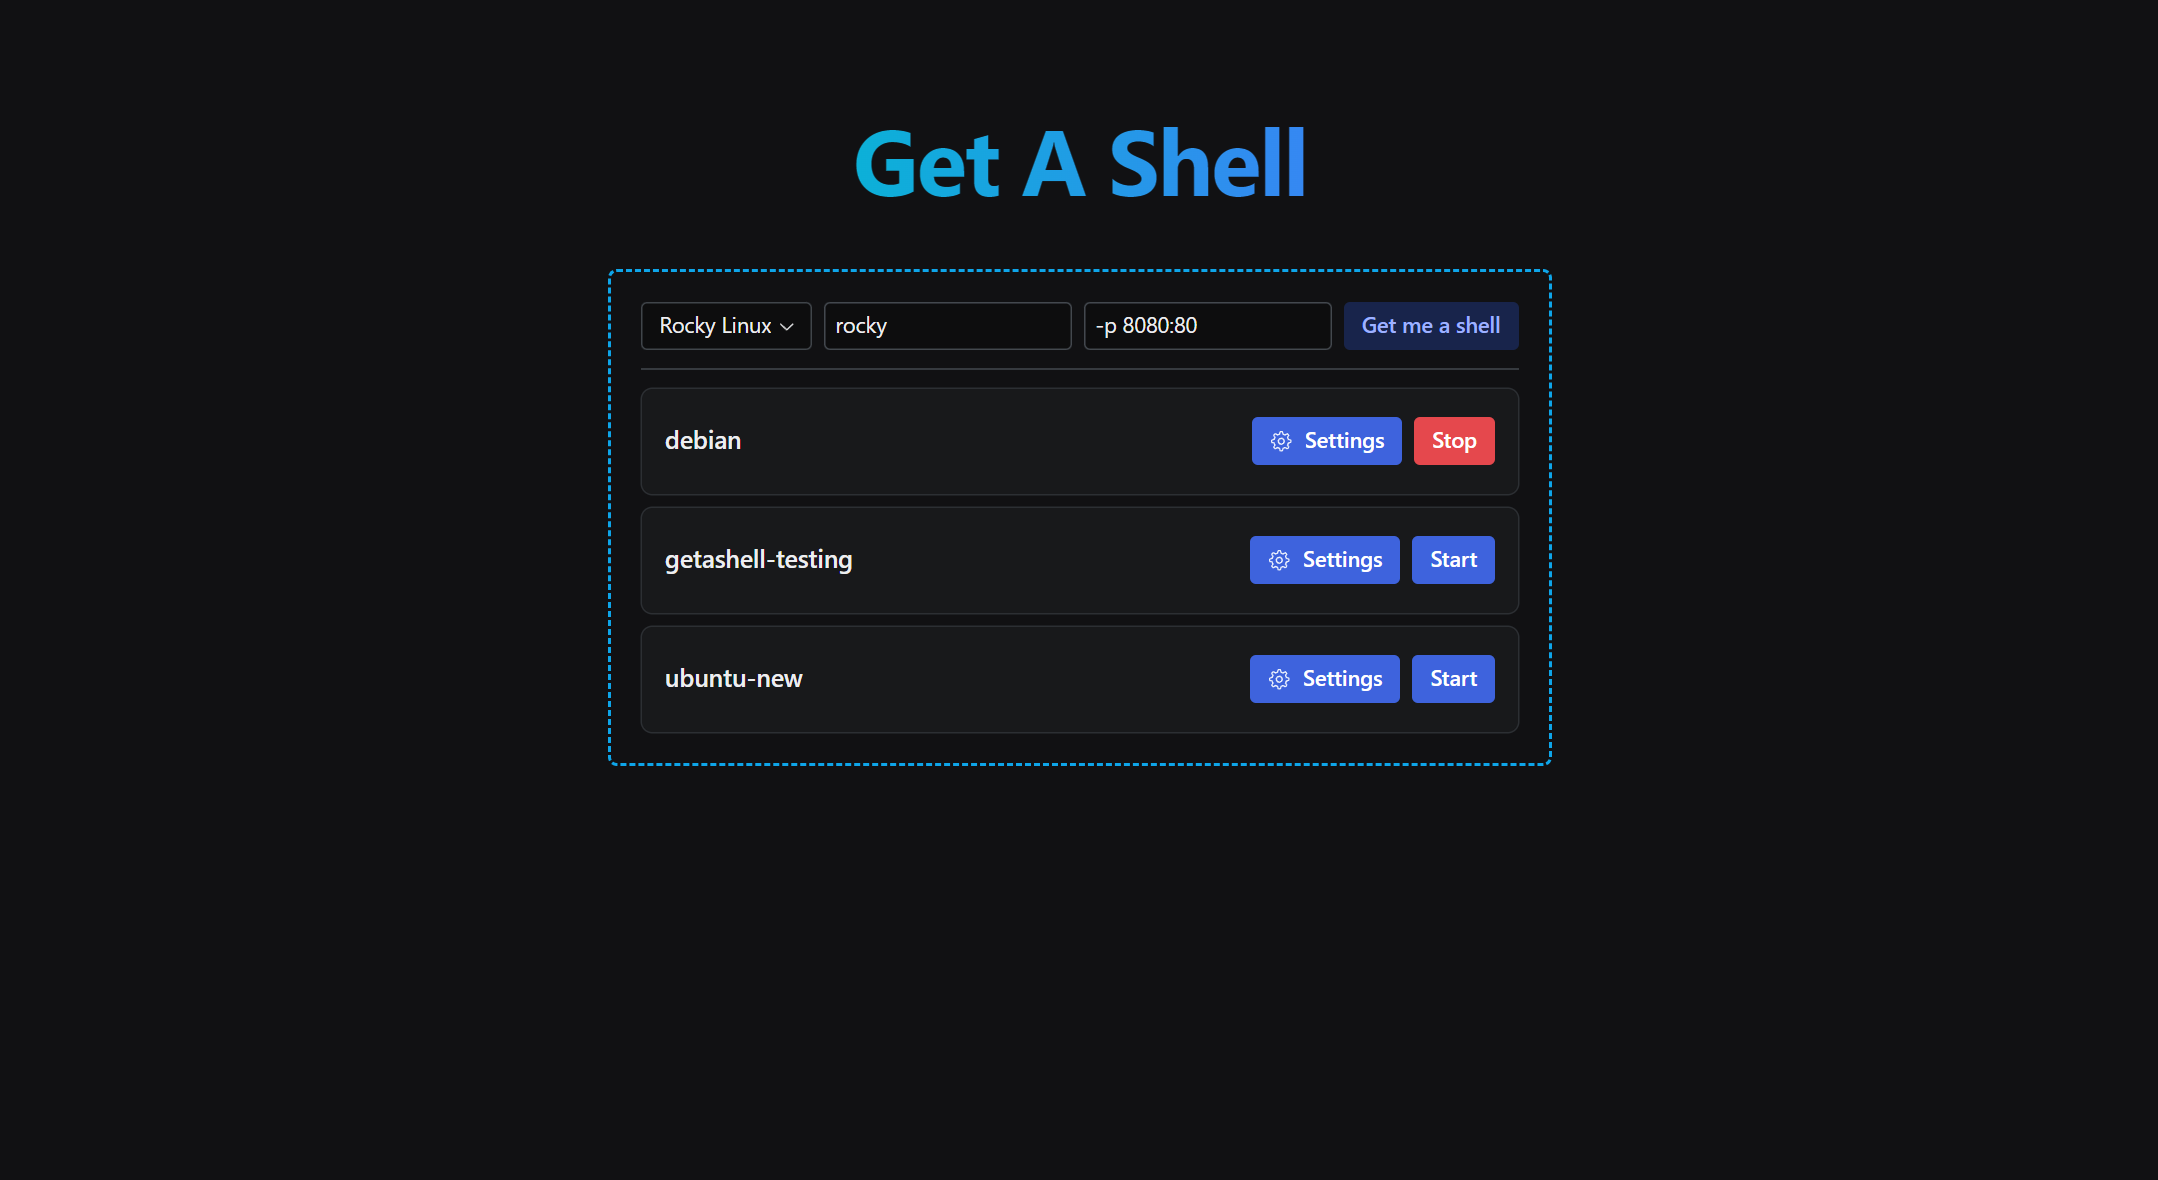
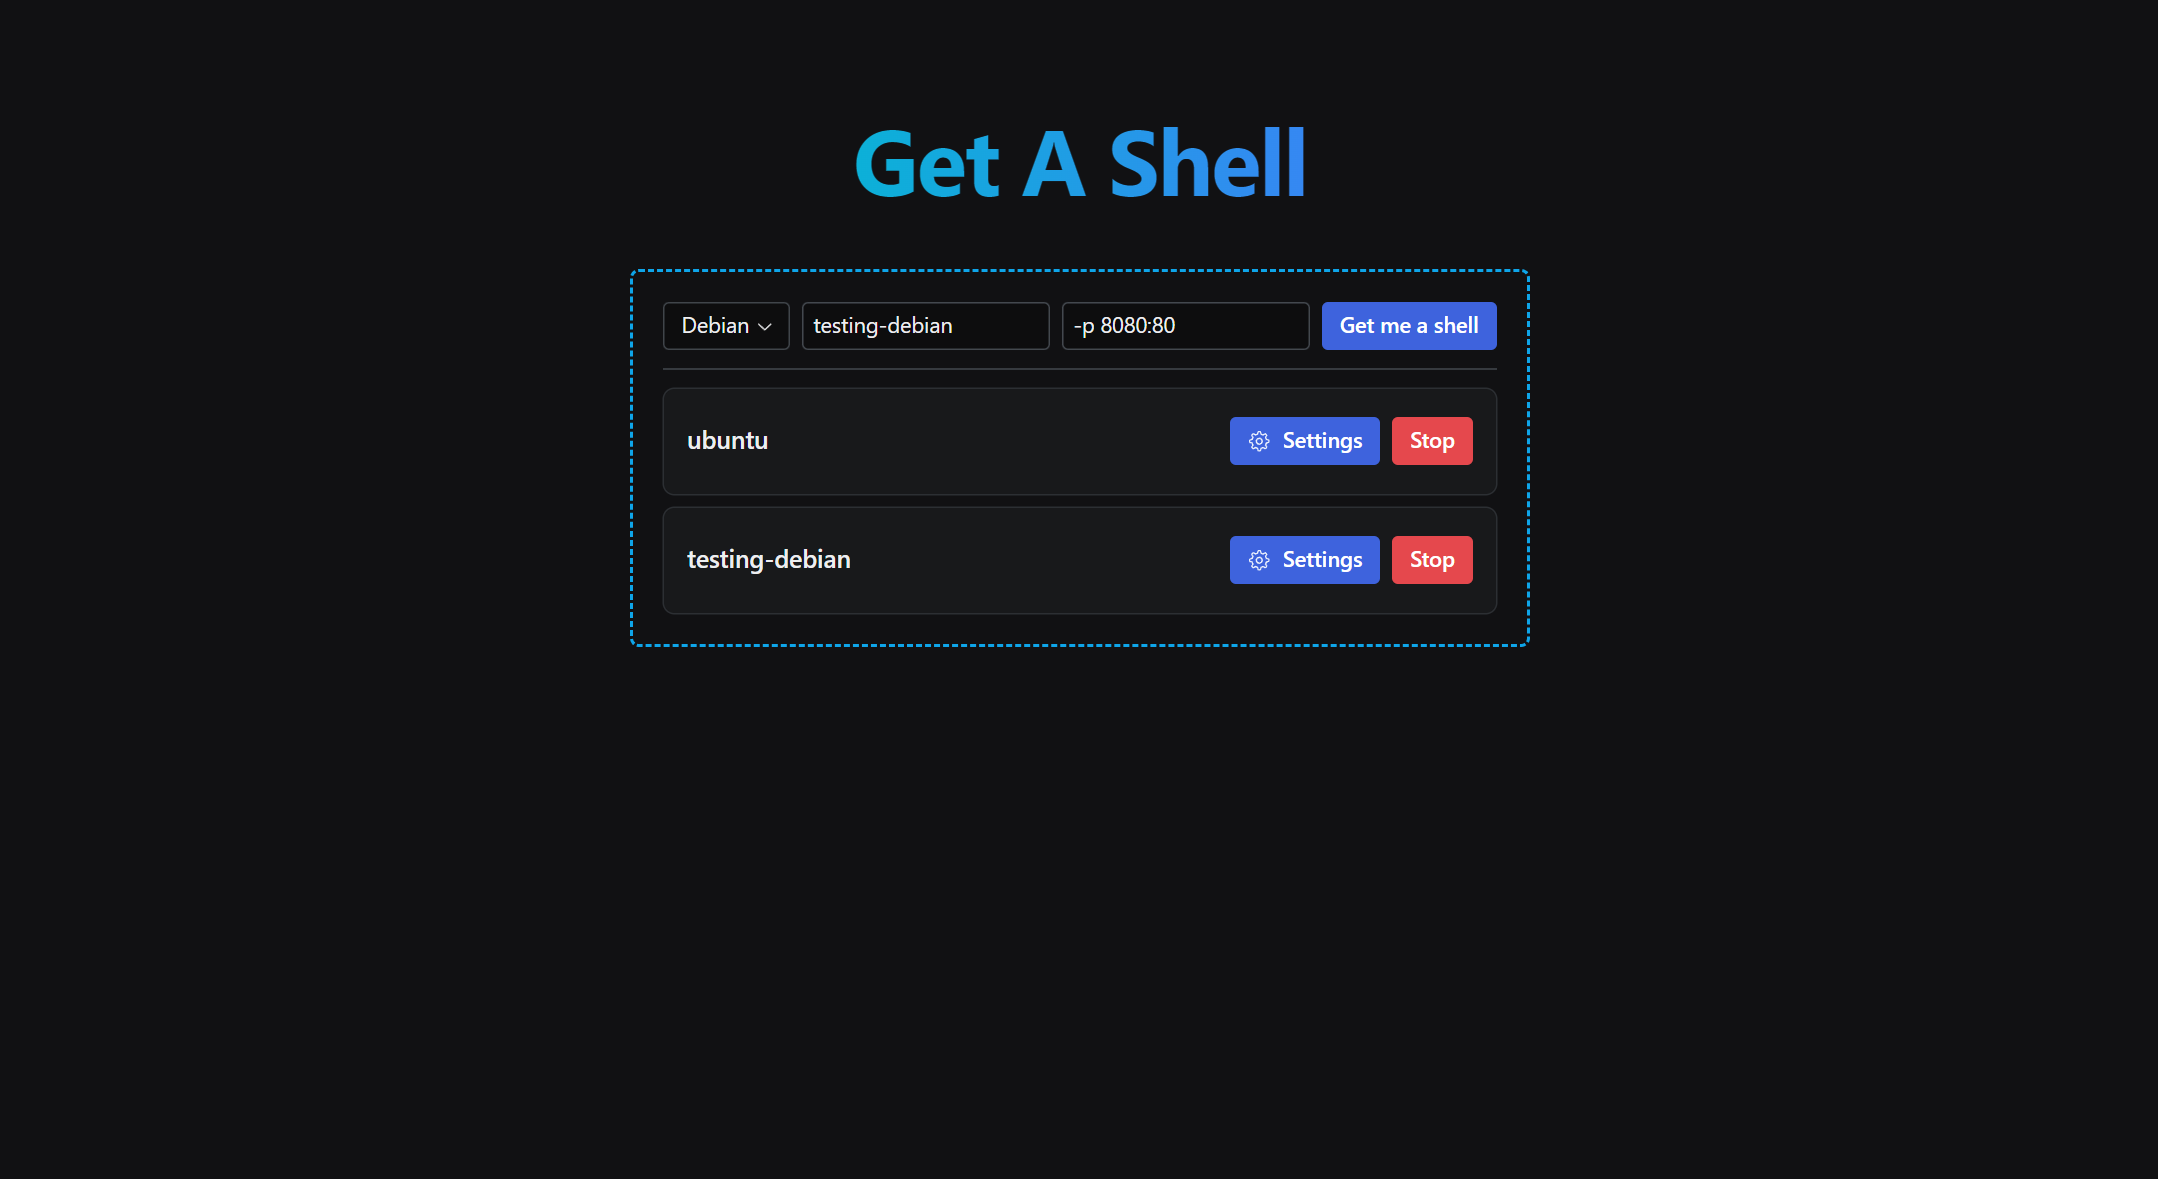
refactor(create-form): change submit button color

diff --git a/src/app/components/create-shell-form/create-shell-form.tsx b/src/app/components/create-shell-form/create-shell-form.tsx
@@ -65,9 +65,7 @@ export const CreateShellForm = () => {
           />
         </TextField.Root>
 
-        <Button type="submit" color="indigo" variant="soft">
-          Get me a shell
-        </Button>
+        <Button type="submit">Get me a shell</Button>
       </Flex>
     </form>
   );
